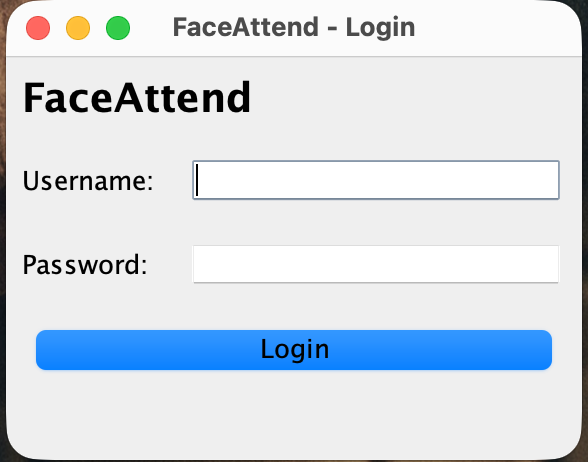
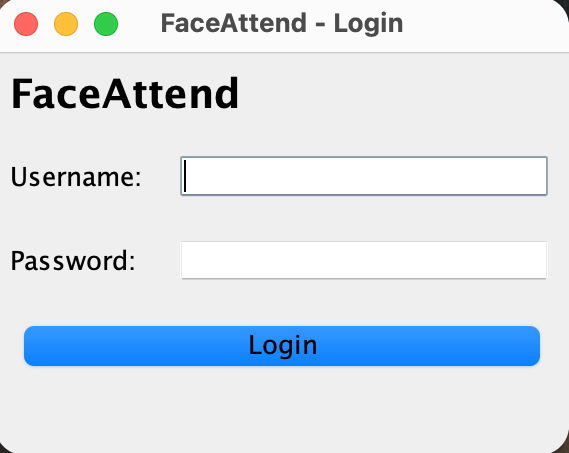
Update README for role-based tabs and the automatic scan flow and modified some screenshots

Changed region(s): [[0.0, 0.0, 1.0, 1.0], [0.3286, 0.5872, 0.9561, 0.6181]]

diff --git a/README.md b/README.md
@@ -1,19 +1,21 @@
 # FaceAttend
 
 A Java desktop app for classroom attendance built around a simulated face-verification workflow.
-Students are enrolled once. In each session, every student ticked present gets a simulated
-face-match confidence score. High scores are auto-marked PRESENT, low scores are flagged for
-manual teacher review. 3rd-semester Java project (Swing + JDBC + MySQL), Galgotias University.
+Students are enrolled once. In each session, the simulated face scan recognises students
+automatically and gives each a confidence score. High scores are auto-marked PRESENT, low
+scores are flagged for manual teacher review, and students the scan does not recognise are
+marked manually by the teacher. 3rd-semester Java project (Swing + JDBC + MySQL), Galgotias University.
 
 ## Features
 
 - Login against a 'users' table, with Logout
+- Role-based access: each role sees only the tabs it needs (see the table below)
 - Enroll students (duplicate roll numbers are rejected)
 - Student directory
 - **Scan Faces (Simulated):** mock-recognises students automatically. A confidence of 85 or above is auto-marked PRESENT, below that is flagged for teacher review, and students it does not recognise stay in the list
 - **Mark Manually:** tick the students who are present. Ticked become PRESENT, unticked become ABSENT
 - **Review Flagged:** the teacher confirms a flagged entry as Present or marks it Absent
-- Today's Records view
+- Today's Records view, showing status, method (face scan or manual), confidence, time and sync state
 - Background sync of attendance records on a separate thread, so the UI never freezes
 
 ## Setup
@@ -73,6 +75,15 @@ If the login screen reports a database error, check that MySQL is running and th
 | teacher   | teacher123   | TEACHER   |
 | inspector | inspector123 | INSPECTOR |
 
+## Roles and access
+
+| Role      | Tabs available                                                                 |
+|-----------|--------------------------------------------------------------------------------|
+| ADMIN     | Enroll Student, Student Directory, Take Attendance, Review Flagged, Today's Records |
+| TEACHER   | Student Directory, Take Attendance, Review Flagged, Today's Records            |
+| INSPECTOR | Student Directory, Today's Records (read-only)                                 |
+
+
 ## Project structure
 
 ```
@@ -93,6 +104,7 @@ sql/        schema.sql
 - **Multithreading and synchronization:** `SyncService` (background thread, synchronized start guard)
 - **JDBC:** CRUD with `PreparedStatement` in the DAO classes
 - **Transactions:** `AttendanceDAOImpl.markBatch` commits a whole session or rolls it back
+- **Role-based access control:** `DashboardFrame` builds its tabs from the logged-in user's `Role`; every attendance record stores `marked_by` for traceability
 
 ## Screenshots
 
@@ -125,11 +137,10 @@ sql/        schema.sql
 
 - Face matching is simulated. There is no camera or ML model, and the confidence score is generated by `AttendanceService.simulateConfidence()`.
 - Passwords are stored and compared as plain text. Hashing (for example BCrypt) is the production fix.
-- Roles are stored on each user, but every role sees the same screens for now.
-
+- Role restrictions are enforced in the UI only (tabs are hidden by role). They are not enforced at the database level.
 
 
 
 ## Team
 
-Ayush Ranjan, Deepankar, Anish
+Ayush Ranjan, Deepankar Pandey, Anish Kumar
